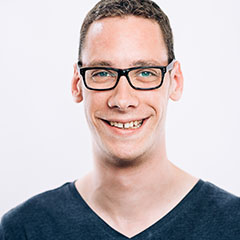
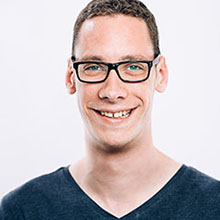
add retina logic for portrait image

diff --git a/site/web/app/themes/simius/front-page.php b/site/web/app/themes/simius/front-page.php
@@ -2,7 +2,7 @@
 <section class="intro section">
     <div class="inner">
         <div class="portrait">
-            <img src="<?php echo get_template_directory_uri(); ?>/assets/images/lars@2x.jpg" class="portrait__image" alt="Lars Graubner" />
+            <img src="<?php echo get_template_directory_uri(); ?>/assets/images/lars.jpg" srcset="<?php echo get_template_directory_uri(); ?>/assets/images/lars.jpg, <?php echo get_template_directory_uri(); ?>/assets/images/lars@2x.jpg 2x" class="portrait__image" width="110" height="110" alt="Lars Graubner" />
         </div>
         <?php the_content(); ?>
         <a href="<?php echo get_page_link(get_page_by_path('about')); ?>" class="button">Learn more about me</a>
